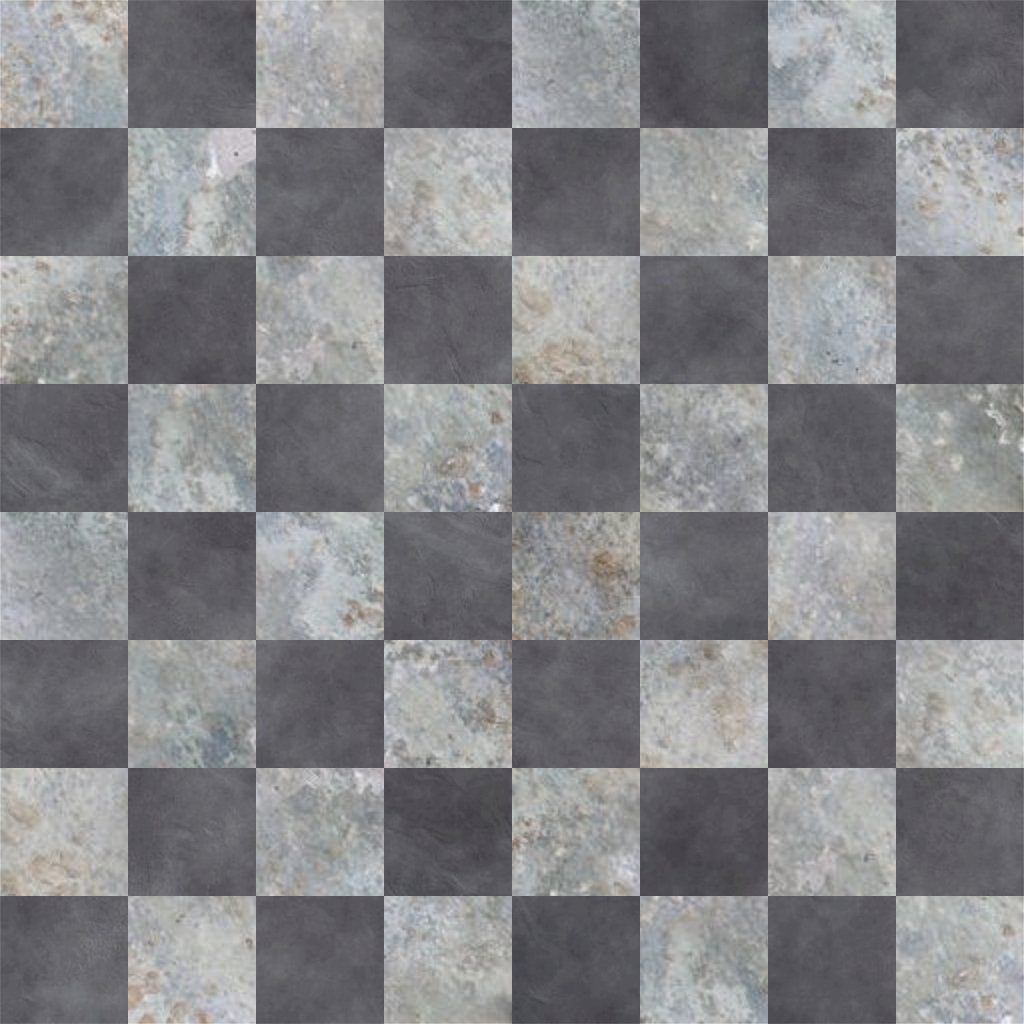
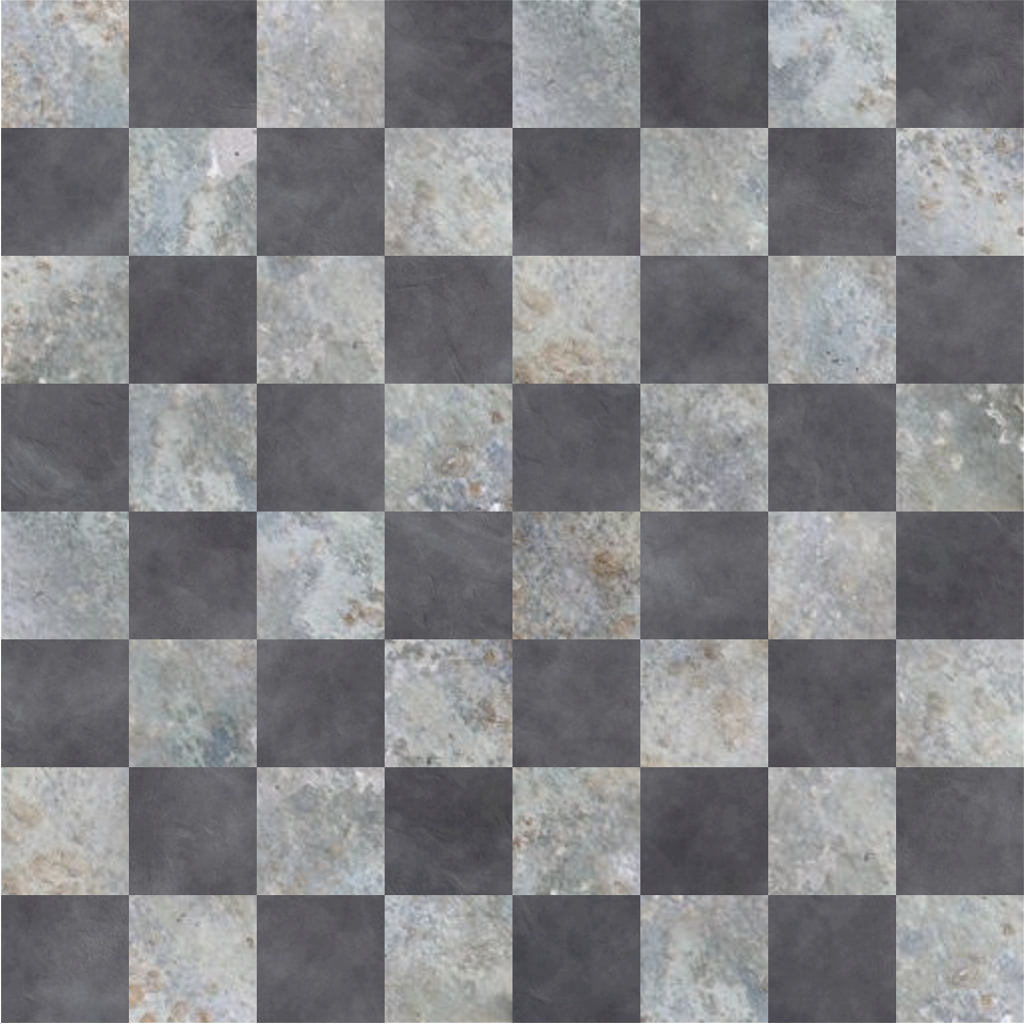
Fix board UV mapping.

diff --git a/TODO.md b/TODO.md
@@ -10,7 +10,6 @@
 ! check for game end
 ! add loading screen
 ! think about user-controlled panning or view shift
-! fix board UV mapping
 ! show captured pieces somewhere
 - consider adding sounds
 - consider adding touch support (test on tablets, etc)
